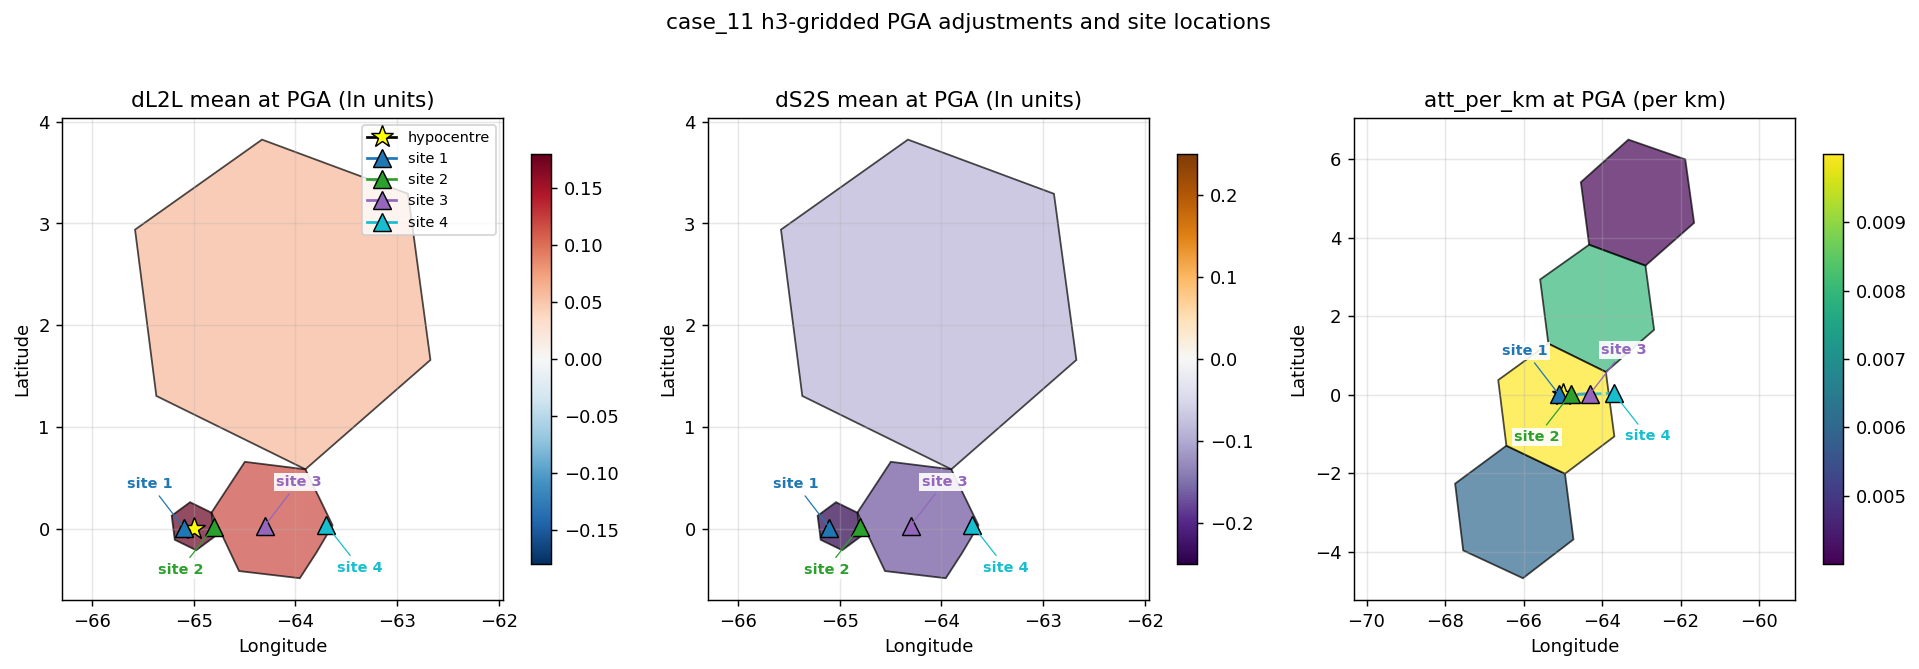
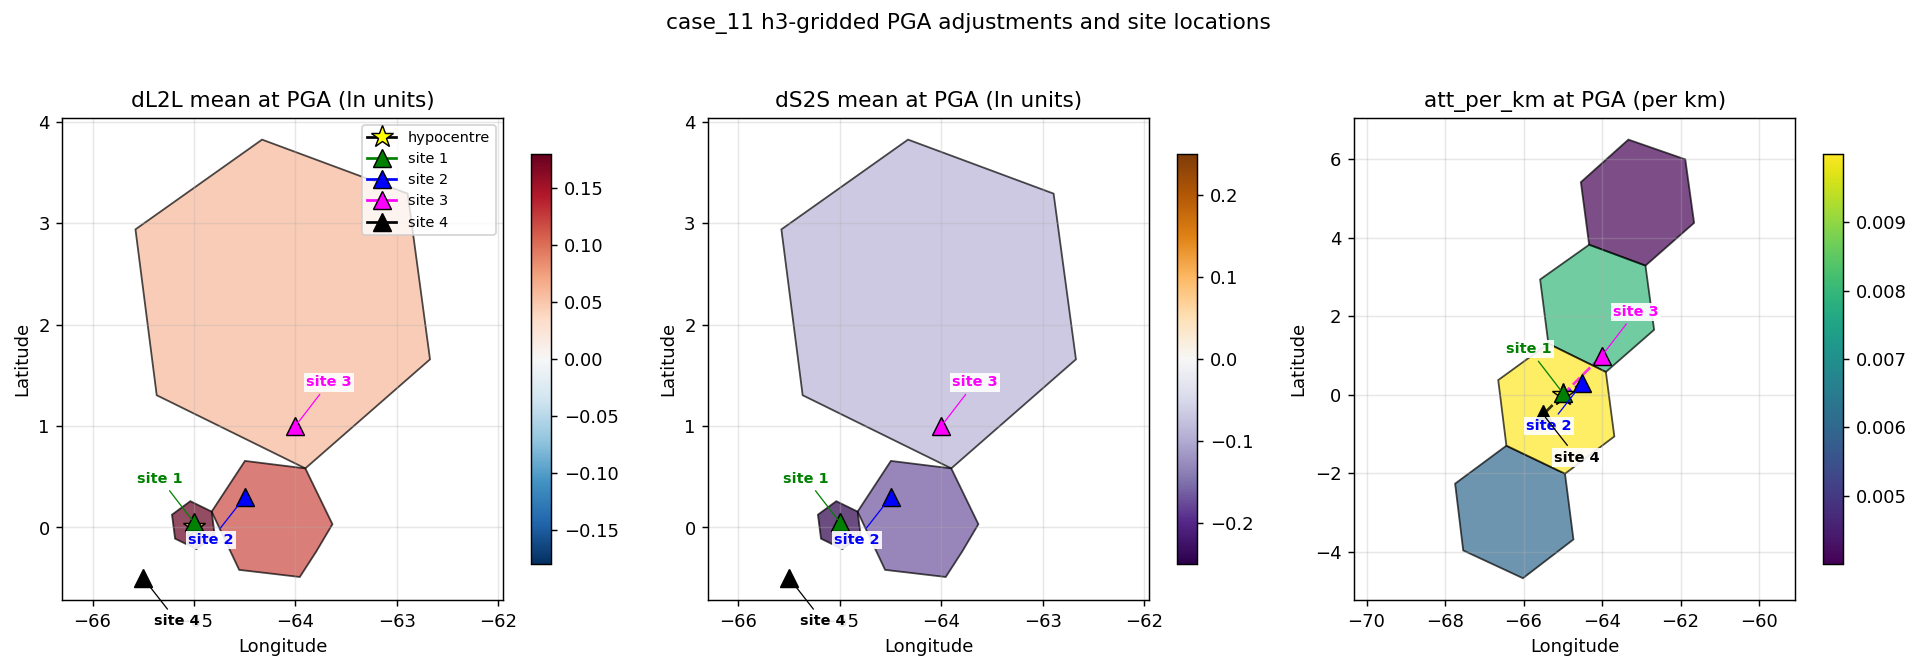
better site spread

diff --git a/openquake/qa_tests_data/classical/case_11/README.md b/openquake/qa_tests_data/classical/case_11/README.md
@@ -1,7 +1,14 @@
 ## Overview
 
-Classical PSHA calculation for four sites using `GridAdjustedGMPE` with
-`AkkarEtAlRjb2014` as the underlying GMM to be adjusted. Three h3-gridded
+Classical PSHA calculation for four sites deliberately placed to
+exercise the H3 spatial fallback: site 1 falls in the finest (res-4)
+stored cell, site 2 in only the res-3 cell (falls back to coarser),
+site 3 in only the res-2 cell (falls back further), and site 4 sits
+outside every stored `dL2L`/`dS2S` cell entirely (correction defaults
+to zero, matching what happens for events or sites outside the region
+of the fitted grid in a real PSHA). All sites still sit inside a path
+cell for `att_per_km` so the raytraced correction applies. Underlying
+GMM is `AkkarEtAlRjb2014`. Three h3-gridded
 residual correction terms are applied (`dL2L`, `dS2S`, `att_per_km`) to
 both the mean predicted ground-motion and the mapped sigma component
 (can be total, tau or phi). The HDF5 stores adjustments at four IMTs
@@ -64,8 +71,8 @@ exists for this GMM sigma correction too in the hdf5):
 
 Yellow star = hypocentre; triangles = the four sites in the site model,
 labelled site 1 through site 4 and colour-coded consistently with the
-UHRS plot below (site 1 blue, site 2 green, site 3 purple, site 4
-teal).
+UHRS plot below (site 1 green, site 2 blue, site 3 magenta, site 4
+black).
 
 ## Additional Information
 
